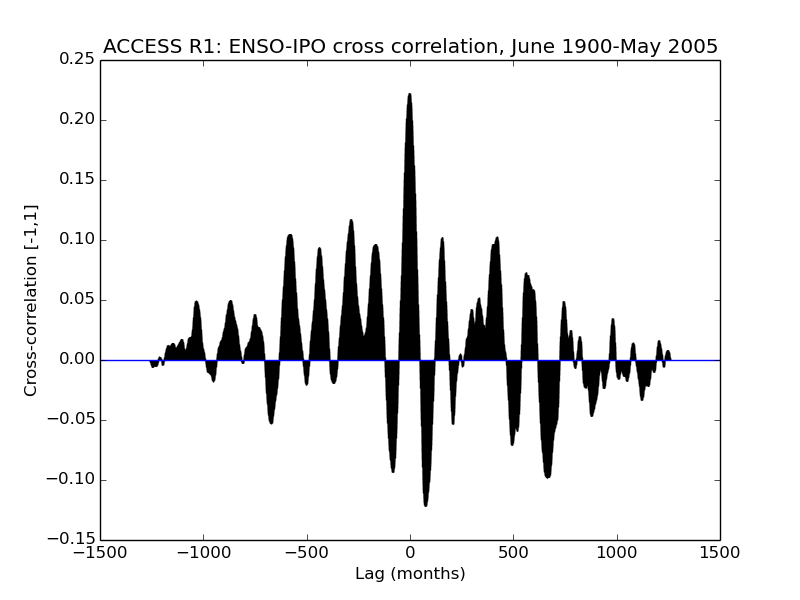
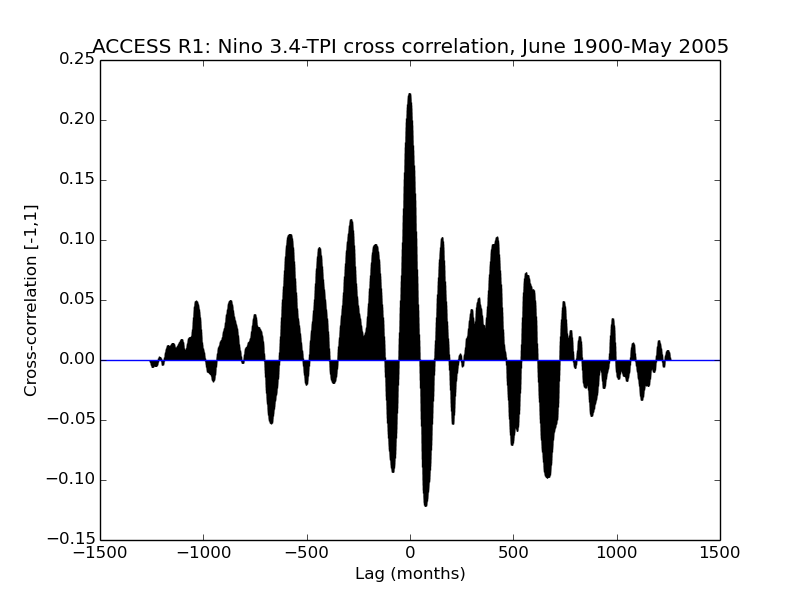
Updated labels on cross-correlation files.

Changed region(s): [[0.0938, 0.06, 0.9062, 0.09]]

diff --git a/cross_corr_routine.py b/cross_corr_routine.py
@@ -80,22 +80,23 @@ def xCorr_ACCESSrainfall_indices(key_ENSO,key_IPO,roundNum):
         }
     
     #ENSO
-    plotXCorrel(data_flat1,Dict[key_ENSO][0],'months','ACCESS '+roundNum+'-ENSO cross correlation, June 1900-May 2005',"my_coding_routines/images/xcorr_indices_rainfall/"+roundNum+"/All_ENSO")
-    plotXCorrel(awap_Annual1,Dict[key_ENSO][1],'years','ACCESS '+roundNum+'-ENSO cross correlation, annual',"my_coding_routines/images/xcorr_indices_rainfall/"+roundNum+"/Annual_ENSO")
-    plotXCorrel(runningSeasons(data_flat1,3,0,1),runningSeasons(Dict[key_ENSO][0],3,0,1),'seasons','ACCESS '+roundNum+'-ENSO cross correlation, JJA 1900-MAM 2005',"my_coding_routines/images/xcorr_indices_rainfall/"+roundNum+"/Seasons_ENSO")
-    plotXCorrel(awap_JJA1,Dict[key_ENSO][2],'years','ACCESS '+roundNum+'-ENSO cross correlation, JJA',"my_coding_routines/images/xcorr_indices_rainfall/"+roundNum+"/JJA_ENSO")
-    plotXCorrel(awap_SON1,Dict[key_ENSO][3],'years','ACCESS '+roundNum+'-ENSO cross correlation, SON',"my_coding_routines/images/xcorr_indices_rainfall/"+roundNum+"/SON_ENSO")
-    plotXCorrel(awap_DJF1,Dict[key_ENSO][4],'years','ACCESS '+roundNum+'-ENSO cross correlation, DJF',"my_coding_routines/images/xcorr_indices_rainfall/"+roundNum+"/DJF_ENSO")
-    plotXCorrel(awap_MAM1,Dict[key_ENSO][5],'years','ACCESS '+roundNum+'-ENSO cross correlation, MAM',"my_coding_routines/images/xcorr_indices_rainfall/"+roundNum+"/MAM_ENSO")
+    plotXCorrel(data_flat1,Dict[key_ENSO][0],'months','ACCESS '+roundNum+'-Nino 3.4 cross correlation, June 1900-May 2005',"my_coding_routines/images/xcorr_indices_rainfall/"+roundNum+"/All_ENSO")
+    plotXCorrel(awap_Annual1,Dict[key_ENSO][1],'years','ACCESS '+roundNum+'-Nino 3.4 cross correlation, annual',"my_coding_routines/images/xcorr_indices_rainfall/"+roundNum+"/Annual_ENSO")
+    plotXCorrel(runningSeasons(data_flat1,3,0,1),runningSeasons(Dict[key_ENSO][0],3,0,1),'seasons','ACCESS '+roundNum+'-Nino 3.4 cross correlation, JJA 1900-MAM 2005',"my_coding_routines/images/xcorr_indices_rainfall/"+roundNum+"/Seasons_ENSO")
+    plotXCorrel(awap_JJA1,Dict[key_ENSO][2],'years','ACCESS '+roundNum+'-Nino 3.4 cross correlation, JJA',"my_coding_routines/images/xcorr_indices_rainfall/"+roundNum+"/JJA_ENSO")
+    plotXCorrel(awap_SON1,Dict[key_ENSO][3],'years','ACCESS '+roundNum+'-Nino 3.4 cross correlation, SON',"my_coding_routines/images/xcorr_indices_rainfall/"+roundNum+"/SON_ENSO")
+    plotXCorrel(awap_DJF1,Dict[key_ENSO][4],'years','ACCESS '+roundNum+'-Nino 3.4 cross correlation, DJF',"my_coding_routines/images/xcorr_indices_rainfall/"+roundNum+"/DJF_ENSO")
+    plotXCorrel(awap_MAM1,Dict[key_ENSO][5],'years','ACCESS '+roundNum+'-Nino 3.4 cross correlation, MAM',"my_coding_routines/images/xcorr_indices_rainfall/"+roundNum+"/MAM_ENSO")
     #IPO
-    plotXCorrel(data_flat1,Dict[key_IPO][0],'months','ACCESS '+roundNum+'-IPO cross correlation, June 1900-May 2005',"my_coding_routines/images/xcorr_indices_rainfall/"+roundNum+"/All_IPO")
-    plotXCorrel(awap_Annual1,Dict[key_IPO][1],'years','ACCESS '+roundNum+'-IPO cross correlation, annual',"my_coding_routines/images/xcorr_indices_rainfall/"+roundNum+"/Annual_IPO")
-    plotXCorrel(runningSeasons(data_flat1,3,0,1),runningSeasons(Dict[key_IPO][0],3,0,1),'seasons','ACCESS '+roundNum+'-IPO cross correlation, JJA 1900-MAM 2005',"my_coding_routines/images/xcorr_indices_rainfall/"+roundNum+"/Seasons_IPO")
-    plotXCorrel(awap_JJA1,Dict[key_IPO][2],'years','ACCESS '+roundNum+'-IPO cross correlation, JJA',"my_coding_routines/images/xcorr_indices_rainfall/"+roundNum+"/JJA_IPO")
-    plotXCorrel(awap_SON1,Dict[key_IPO][3],'years','ACCESS '+roundNum+'-IPO cross correlation, SON',"my_coding_routines/images/xcorr_indices_rainfall/"+roundNum+"/SON_IPO")
-    plotXCorrel(awap_DJF1,Dict[key_IPO][4],'years','ACCESS '+roundNum+'-IPO cross correlation, DJF',"my_coding_routines/images/xcorr_indices_rainfall/"+roundNum+"/DJF_IPO")
-    plotXCorrel(awap_MAM1,Dict[key_IPO][5],'years','ACCESS '+roundNum+'-IPO cross correlation, MAM',"my_coding_routines/images/xcorr_indices_rainfall/"+roundNum+"/MAM_IPO")
+    plotXCorrel(data_flat1,Dict[key_IPO][0],'months','ACCESS '+roundNum+'-TPI cross correlation, June 1900-May 2005',"my_coding_routines/images/xcorr_indices_rainfall/"+roundNum+"/All_IPO")
+    plotXCorrel(awap_Annual1,Dict[key_IPO][1],'years','ACCESS '+roundNum+'-TPI cross correlation, annual',"my_coding_routines/images/xcorr_indices_rainfall/"+roundNum+"/Annual_IPO")
+    plotXCorrel(runningSeasons(data_flat1,3,0,1),runningSeasons(Dict[key_IPO][0],3,0,1),'seasons','ACCESS '+roundNum+'-TPI cross correlation, JJA 1900-MAM 2005',"my_coding_routines/images/xcorr_indices_rainfall/"+roundNum+"/Seasons_IPO")
+    plotXCorrel(awap_JJA1,Dict[key_IPO][2],'years','ACCESS '+roundNum+'-TPI cross correlation, JJA',"my_coding_routines/images/xcorr_indices_rainfall/"+roundNum+"/JJA_IPO")
+    plotXCorrel(awap_SON1,Dict[key_IPO][3],'years','ACCESS '+roundNum+'-TPI cross correlation, SON',"my_coding_routines/images/xcorr_indices_rainfall/"+roundNum+"/SON_IPO")
+    plotXCorrel(awap_DJF1,Dict[key_IPO][4],'years','ACCESS '+roundNum+'-TPI cross correlation, DJF',"my_coding_routines/images/xcorr_indices_rainfall/"+roundNum+"/DJF_IPO")
+    plotXCorrel(awap_MAM1,Dict[key_IPO][5],'years','ACCESS '+roundNum+'-TPI cross correlation, MAM',"my_coding_routines/images/xcorr_indices_rainfall/"+roundNum+"/MAM_IPO")
     return
+
 
 def xCorrIndices_Obs():
     """
@@ -103,21 +104,13 @@ def xCorrIndices_Obs():
     observational data.
     """
     #ENSO-IPO
-    plotXCorrel(cropHad,Had_monthsTPI,'months','AWAP: ENSO-IPO cross correlation, June 1900-May 2005','my_coding_routines/images/xcorr_nino_tpi/awap/All_ENSO')
-    plotXCorrel(enso_Annual_Had,IPO_had_Annual,'months','AWAP: ENSO-IPO cross correlation, annual','my_coding_routines/images/xcorr_nino_tpi/awap/Annual_ENSO')
-    plotXCorrel(runningSeasons(cropHad,3,0,1),runningSeasons(Had_monthsTPI,3,0,1),'seasons','AWAP: ENSO-IPO cross correlation, JJA 1900-MAM 2005','my_coding_routines/images/xcorr_nino_tpi/awap/Seasons_ENSO')
-    plotXCorrel(enso_JJA_Had,IPO_had_JJA,'years','AWAP: ENSO-IPO cross correlation, JJA','my_coding_routines/images/xcorr_nino_tpi/awap/JJA_ENSO')
-    plotXCorrel(enso_SON_Had,IPO_had_SON,'years','AWAP: ENSO-IPO cross correlation, SON','my_coding_routines/images/xcorr_nino_tpi/awap/SON_ENSO')
-    plotXCorrel(enso_DJF_Had,IPO_had_DJF,'years','AWAP: ENSO-IPO cross correlation, DJF','my_coding_routines/images/xcorr_nino_tpi/awap/DJF_ENSO')
-    plotXCorrel(enso_MAM_Had,IPO_had_MAM,'years','AWAP: ENSO-IPO cross correlation, MAM','my_coding_routines/images/xcorr_nino_tpi/awap/MAM_ENSO')
-    #IPO-ENSO
-    plotXCorrel(Had_monthsTPI,cropHad,'months','AWAP: IPO-ENSO cross correlation, June 1900-May 2005','my_coding_routines/images/xcorr_nino_tpi/awap/All_IPO')
-    plotXCorrel(IPO_had_Annual,enso_Annual_Had,'months','AWAP: IPO-ENSO cross correlation, annual','my_coding_routines/images/xcorr_nino_tpi/awap/Annual_IPO')
-    plotXCorrel(runningSeasons(Had_monthsTPI,3,0,1),runningSeasons(cropHad,3,0,1),'seasons','AWAP: IPO-ENSO cross correlation, JJA 1900-MAM 2005','my_coding_routines/images/xcorr_nino_tpi/awap/Seasons_IPO')
-    plotXCorrel(IPO_had_JJA,enso_JJA_Had,'years','AWAP: IPO-ENSO cross correlation, JJA','my_coding_routines/images/xcorr_nino_tpi/awap/JJA_IPO')
-    plotXCorrel(IPO_had_SON,enso_SON_Had,'years','AWAP: IPO-ENSO cross correlation, SON','my_coding_routines/images/xcorr_nino_tpi/awap/SON_IPO')
-    plotXCorrel(IPO_had_DJF,enso_DJF_Had,'years','AWAP: IPO-ENSO cross correlation, DJF','my_coding_routines/images/xcorr_nino_tpi/awap/DJF_IPO')
-    plotXCorrel(IPO_had_MAM,enso_MAM_Had,'years','AWAP: IPO-ENSO cross correlation, MAM','my_coding_routines/images/xcorr_nino_tpi/awap/MAM_IPO')
+    plotXCorrel(cropHad,Had_monthsTPI,'months','AWAP: Nino 3.4-TPI cross correlation, June 1900-May 2005','my_coding_routines/images/xcorr_nino_tpi/awap/All_ENSO')
+    plotXCorrel(enso_Annual_Had,IPO_had_Annual,'years','AWAP: Nino 3.4-TPI cross correlation, annual','my_coding_routines/images/xcorr_nino_tpi/awap/Annual_ENSO')
+    plotXCorrel(runningSeasons(cropHad,3,0,1),runningSeasons(Had_monthsTPI,3,0,1),'seasons','AWAP: Nino 3.4-TPI cross correlation, JJA 1900-MAM 2005','my_coding_routines/images/xcorr_nino_tpi/awap/Seasons_ENSO')
+    plotXCorrel(enso_JJA_Had,IPO_had_JJA,'years','AWAP: Nino 3.4-TPI cross correlation, JJA','my_coding_routines/images/xcorr_nino_tpi/awap/JJA_ENSO')
+    plotXCorrel(enso_SON_Had,IPO_had_SON,'years','AWAP: Nino 3.4-TPI cross correlation, SON','my_coding_routines/images/xcorr_nino_tpi/awap/SON_ENSO')
+    plotXCorrel(enso_DJF_Had,IPO_had_DJF,'years','AWAP: Nino 3.4-TPI cross correlation, DJF','my_coding_routines/images/xcorr_nino_tpi/awap/DJF_ENSO')
+    plotXCorrel(enso_MAM_Had,IPO_had_MAM,'years','AWAP: Nino 3.4-TPI cross correlation, MAM','my_coding_routines/images/xcorr_nino_tpi/awap/MAM_ENSO')
     return
 
 def xCorrIndices_Model(key_ENSO,key_IPO,roundNum):
@@ -141,13 +134,13 @@ def xCorrIndices_Model(key_ENSO,key_IPO,roundNum):
         }
     
     #ENSO-IPO
-    plotXCorrel(Dict[key_ENSO][0],Dict[key_IPO][0],'months','ACCESS '+roundNum+': ENSO-IPO cross correlation, June 1900-May 2005','my_coding_routines/images/xcorr_nino_tpi/'+roundNum+'/All')
-    plotXCorrel(Dict[key_ENSO][1],Dict[key_IPO][1],'months','ACCESS '+roundNum+': ENSO-IPO cross correlation, annual','my_coding_routines/images/xcorr_nino_tpi/'+roundNum+'/Annual')
-    plotXCorrel(runningSeasons(Dict[key_ENSO][0],3,0,1),runningSeasons(Dict[key_IPO][0],3,0,1),'seasons','ACCESS '+roundNum+': ENSO-IPO cross correlation, JJA 1900-MAM 2005','my_coding_routines/images/xcorr_nino_tpi/'+roundNum+'/Seasons')
-    plotXCorrel(Dict[key_ENSO][2],Dict[key_IPO][2],'years','ACCESS '+roundNum+': ENSO-IPO cross correlation, JJA','my_coding_routines/images/xcorr_nino_tpi/'+roundNum+'/JJA')
-    plotXCorrel(Dict[key_ENSO][3],Dict[key_IPO][3],'years','ACCESS '+roundNum+': ENSO-IPO cross correlation, SON','my_coding_routines/images/xcorr_nino_tpi/'+roundNum+'/SON')
-    plotXCorrel(Dict[key_ENSO][4],Dict[key_IPO][4],'years','ACCESS '+roundNum+': ENSO-IPO cross correlation, DJF','my_coding_routines/images/xcorr_nino_tpi/'+roundNum+'/DJF')
-    plotXCorrel(Dict[key_ENSO][5],Dict[key_IPO][5],'years','ACCESS '+roundNum+': ENSO-IPO cross correlation, MAM','my_coding_routines/images/xcorr_nino_tpi/'+roundNum+'/MAM')
+    plotXCorrel(Dict[key_ENSO][0],Dict[key_IPO][0],'months','ACCESS '+roundNum+': Nino 3.4-TPI cross correlation, June 1900-May 2005','my_coding_routines/images/xcorr_nino_tpi/'+roundNum+'/All')
+    plotXCorrel(Dict[key_ENSO][1],Dict[key_IPO][1],'years','ACCESS '+roundNum+': Nino 3.4-TPI cross correlation, annual','my_coding_routines/images/xcorr_nino_tpi/'+roundNum+'/Annual')
+    plotXCorrel(runningSeasons(Dict[key_ENSO][0],3,0,1),runningSeasons(Dict[key_IPO][0],3,0,1),'seasons','ACCESS '+roundNum+': Nino 3.4-TPI cross correlation, JJA 1900-MAM 2005','my_coding_routines/images/xcorr_nino_tpi/'+roundNum+'/Seasons')
+    plotXCorrel(Dict[key_ENSO][2],Dict[key_IPO][2],'years','ACCESS '+roundNum+': Nino 3.4-TPI cross correlation, JJA','my_coding_routines/images/xcorr_nino_tpi/'+roundNum+'/JJA')
+    plotXCorrel(Dict[key_ENSO][3],Dict[key_IPO][3],'years','ACCESS '+roundNum+': Nino 3.4-TPI cross correlation, SON','my_coding_routines/images/xcorr_nino_tpi/'+roundNum+'/SON')
+    plotXCorrel(Dict[key_ENSO][4],Dict[key_IPO][4],'years','ACCESS '+roundNum+': Nino 3.4-TPI cross correlation, DJF','my_coding_routines/images/xcorr_nino_tpi/'+roundNum+'/DJF')
+    plotXCorrel(Dict[key_ENSO][5],Dict[key_IPO][5],'years','ACCESS '+roundNum+': Nino 3.4-TPI cross correlation, MAM','my_coding_routines/images/xcorr_nino_tpi/'+roundNum+'/MAM')
     return
 
 data_flat1 = flatten(data_flat)
@@ -158,9 +151,6 @@ awap_DJF1 = flatten(awap_DJF)
 awap_MAM1 = flatten(awap_MAM)
 
 #Generate cross correlation charts
-
-xCorr_AWAPrainfall_indices()
-xCorrIndices_Obs()
 
 xCorr_AWAPrainfall_indices()
 xCorr_ACCESSrainfall_indices(key_ENSO='R1_ENSO',key_IPO='R1_IPO',roundNum='R1')
